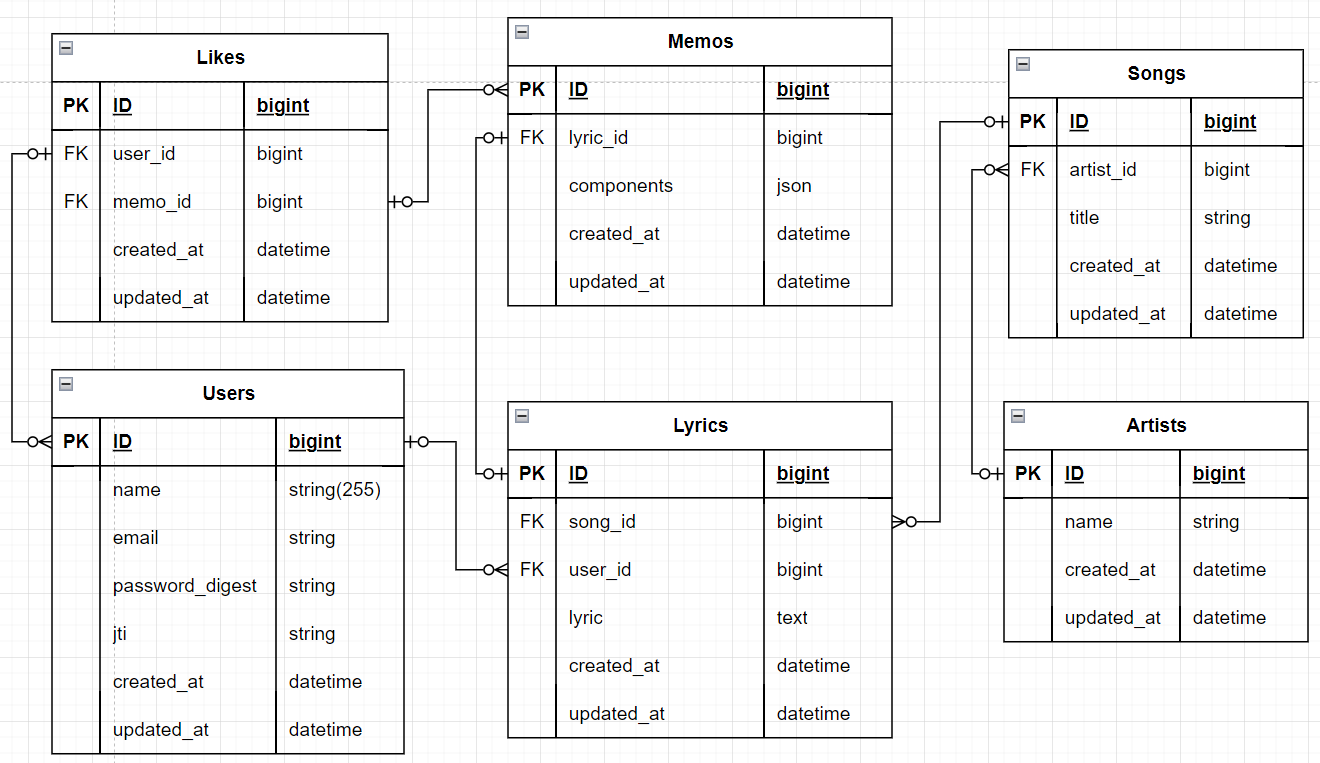
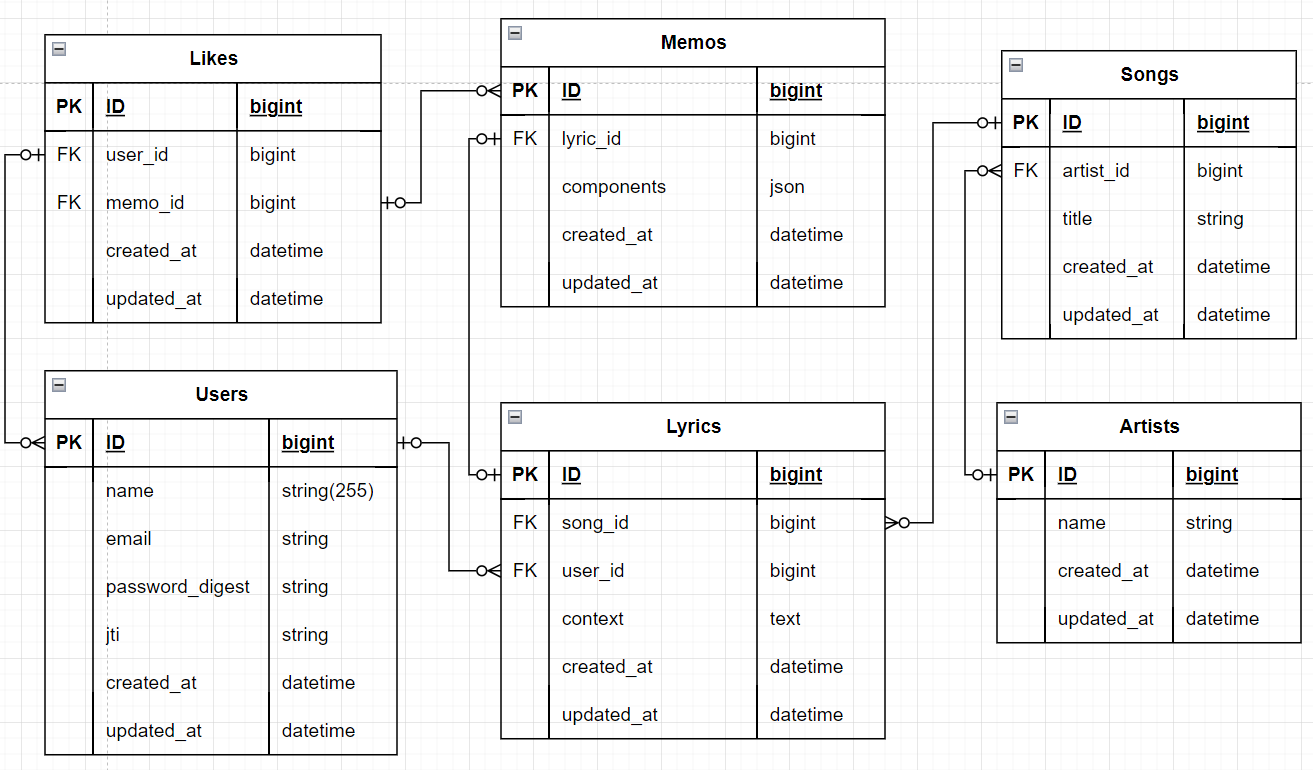
fix:カラム名修正

diff --git a/README.md b/README.md
@@ -148,4 +148,4 @@
   - https://www.figma.com/proto/oCOgnShi7RnwKI5QWKWYUH/%EF%BC%88MVP%EF%BC%89UtaMemo?node-id=0-1&t=2y0Cj2CdV9fiddXL-1
 
 # ER図
-![ER図(MVP)](image-1.png)
+![ER図(MVP)](ER_diagram.png)
